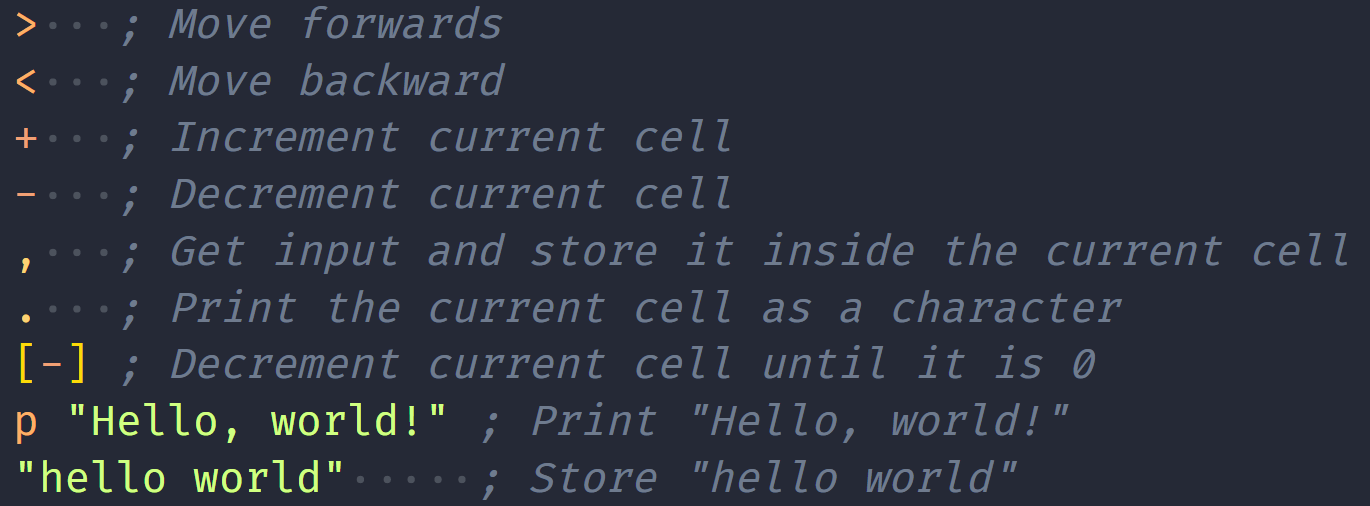
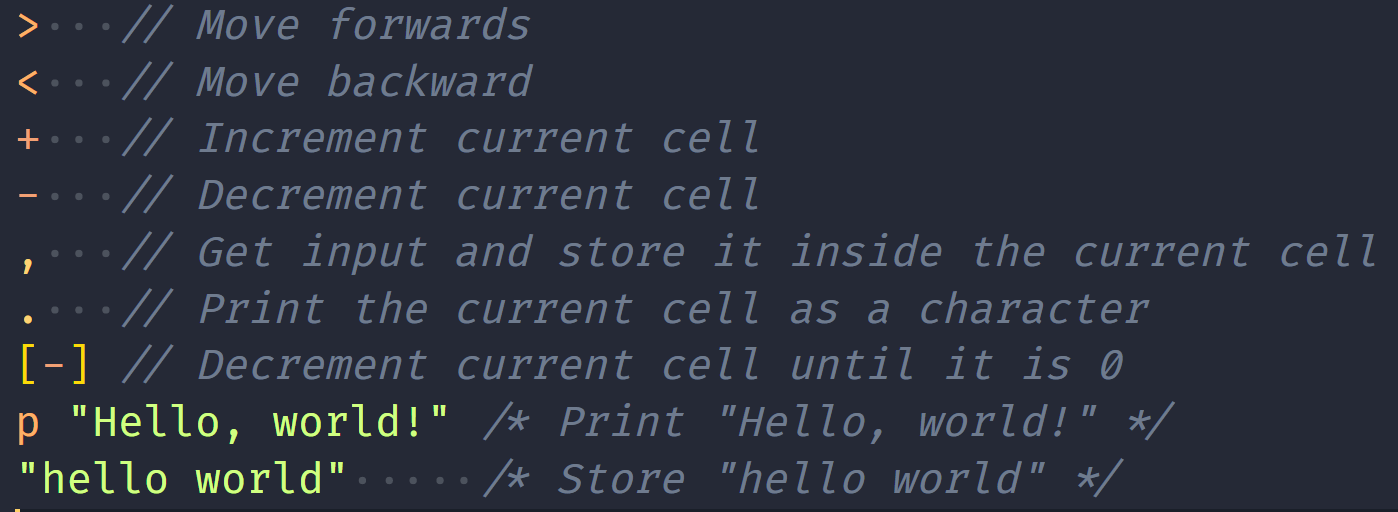
changed how comments work (// /* */)

diff --git a/README.md b/README.md
@@ -41,6 +41,11 @@ Initial release of Brainfuck+
 Fixed readme
 ---
 
+### 0.0.3
+
+Changed comments to be "//" and "/* */"
+---
+
 <!--
 ## Working with Markdown
 
